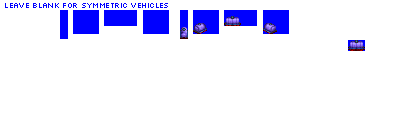
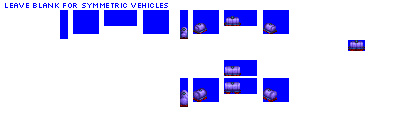
Change: mark sprites complete for NG gen 3A and 4A tank cars (TMWFTLB to do variations)

Changed region(s): [[0.45, 0.5, 0.72, 0.9]]

diff --git a/src/vehicles/tank_cars.py b/src/vehicles/tank_cars.py
@@ -21,7 +21,7 @@ def main():
                              gen=3,
                              subtype='A',
                              base_track_type='NG',
-                             sprites_complete=False)
+                             sprites_complete=True)
 
     consist.add_unit(type=FreightCar,
                      vehicle_length=4,
@@ -32,7 +32,7 @@ def main():
                              gen=4,
                              subtype='A',
                              base_track_type='NG',
-                             sprites_complete=False)
+                             sprites_complete=True)
 
     consist.add_unit(type=FreightCar,
                      vehicle_length=4,
